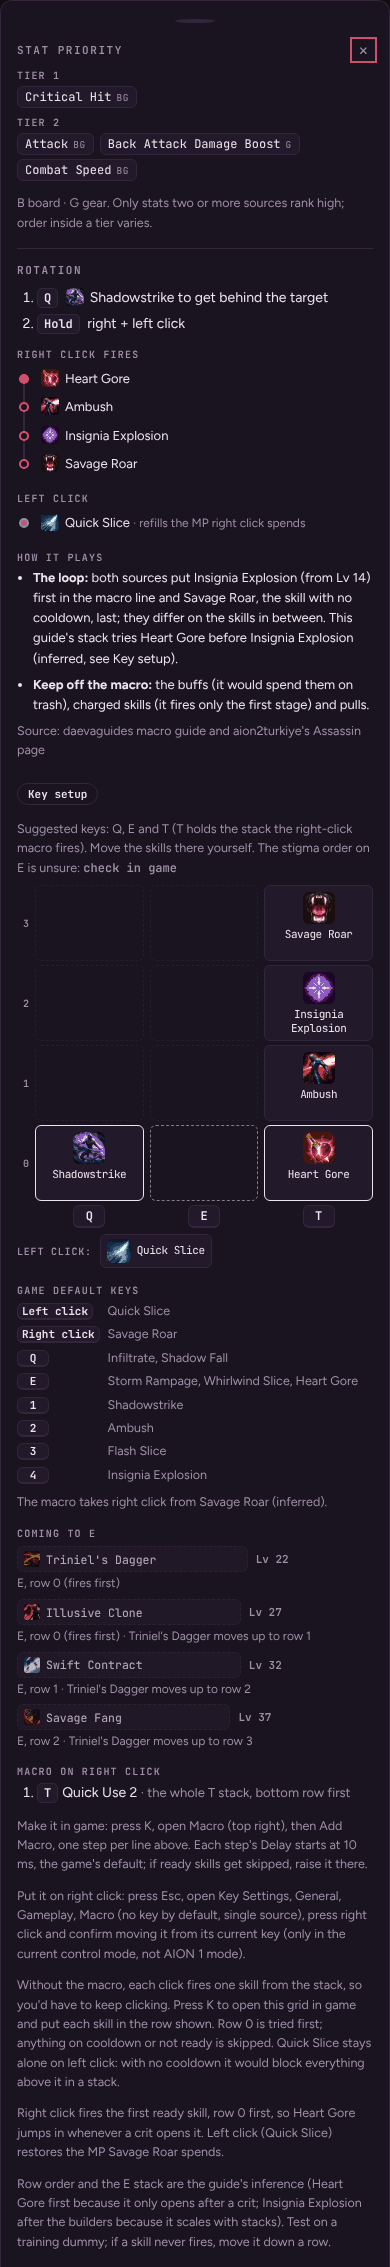
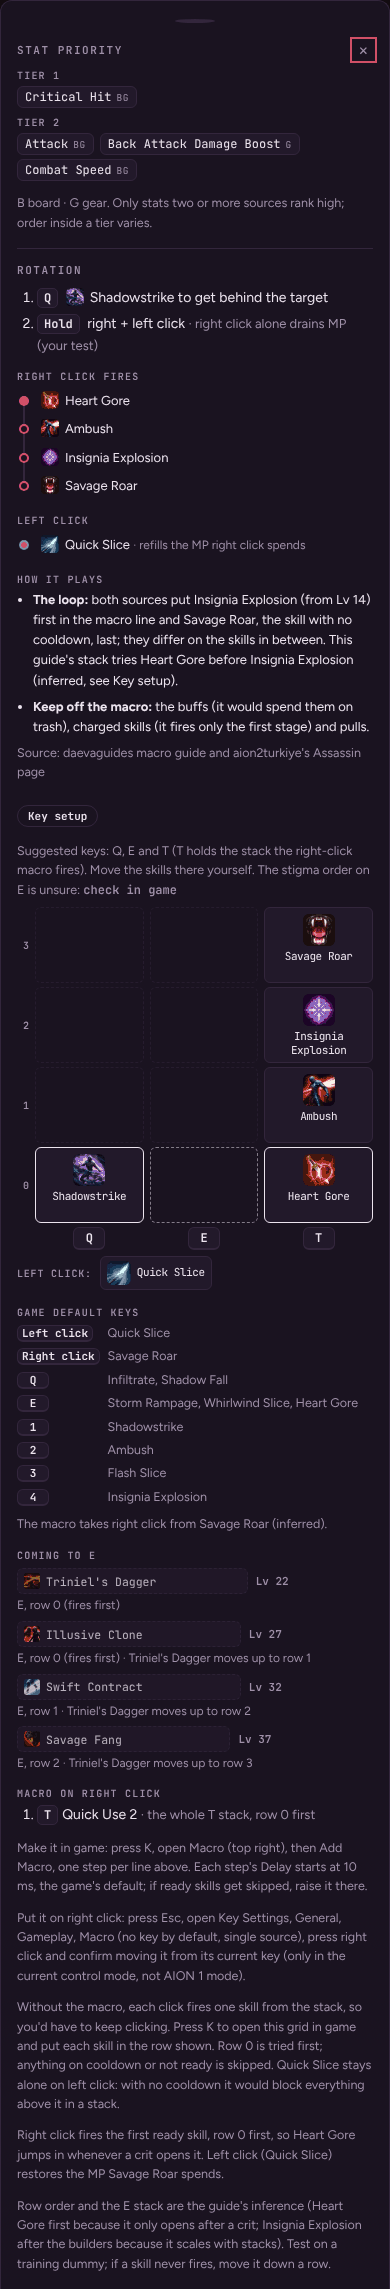
0.9 P22 input rev 2.1: answers to Saul's blind review (No visible change in the app)
Brings back what old macro line 3 carried, as one muted clause on the Rotation's Hold step
("right click alone drains MP (your test)"). Steps say "row 0 first" to match the grid. Adds
Lv 27, Lv 45 and Basic frames (test fixture) to shoot.mjs. Every finding is answered in the doc.

npm test: 22/23, with a11y failing in the full run on "keys lv20 advanced 390px touch: a long
skill name wraps". It passes on its own (node tests/run.mjs --only a11y). Same check as rev 2; no
src change.

Claude-Session: https://claude.ai/code/session_01K8AEp1D6fnpHKSP7HbTKan

diff --git a/docs/design/0.9-keys/macro/macro-steps.html b/docs/design/0.9-keys/macro/macro-steps.html
@@ -1,6 +1,6 @@
 <div class="rmbline mac"><span class="mocktag">MOCK DATA: SHAPE ONLY</span><span class="khead">Macro on right click · 3 steps</span>
- <ol class="playsteps"><li><b>T</b>Quick Use 2 <span class="muted">· the whole T stack, bottom row first</span></li>
- <li><b>Q</b>Quick Use 8 <span class="muted">· the whole Q stack, bottom row first</span></li>
+ <ol class="playsteps"><li><b>T</b>Quick Use 2 <span class="muted">· the whole T stack, row 0 first</span></li>
+ <li><b>Q</b>Quick Use 8 <span class="muted">· the whole Q stack, row 0 first</span></li>
  <li><img class="spmini" src="assets/icons/sk-shadow-fall.png" alt="">Shadow Fall <span class="muted">· one skill · Delay 200 ms</span></li></ol>
  <p class="fine tline">Make it in game: press K, open Macro (top right), then Add Macro, one step per line above. Each step's Delay starts at 10 ms, the game's default; if ready skills get skipped, raise it there. Up to 20 steps. Left click can only be the last step.</p>
  <p class="fine tline">Put it on right click: press Esc, open Key Settings, General, Gameplay, Macro (no key by default, single source), press right click and confirm moving it from its current key (only in the current control mode, not AION 1 mode).</p>

diff --git a/docs/design/0.9-keys/macro/macro-lv1.html b/docs/design/0.9-keys/macro/macro-lv1.html
@@ -1,5 +1,5 @@
 <div class="rmbline mac"><span class="khead">Macro on right click</span>
- <ol class="playsteps"><li><b>T</b>Quick Use 2 <span class="muted">· the whole T stack, bottom row first</span></li></ol>
+ <ol class="playsteps"><li><b>T</b>Quick Use 2 <span class="muted">· the whole T stack, row 0 first</span></li></ol>
  <p class="fine tline">Make it in game: press K, open Macro (top right), then Add Macro, one step per line above. Each step's Delay starts at 10 ms, the game's default; if ready skills get skipped, raise it there.</p>
  <p class="fine tline">Put it on right click: press Esc, open Key Settings, General, Gameplay, Macro (no key by default, single source), press right click and confirm moving it from its current key (only in the current control mode, not AION 1 mode).</p>
 </div>

diff --git a/docs/design/0.9-keys/macro/macro-lv20.html b/docs/design/0.9-keys/macro/macro-lv20.html
@@ -1,5 +1,5 @@
 <div class="rmbline mac"><span class="khead">Macro on right click</span>
- <ol class="playsteps"><li><b>T</b>Quick Use 2 <span class="muted">· the whole T stack, bottom row first</span></li></ol>
+ <ol class="playsteps"><li><b>T</b>Quick Use 2 <span class="muted">· the whole T stack, row 0 first</span></li></ol>
  <p class="fine tline">Make it in game: press K, open Macro (top right), then Add Macro, one step per line above. Each step's Delay starts at 10 ms, the game's default; if ready skills get skipped, raise it there.</p>
  <p class="fine tline">Put it on right click: press Esc, open Key Settings, General, Gameplay, Macro (no key by default, single source), press right click and confirm moving it from its current key (only in the current control mode, not AION 1 mode).</p>
 </div>

diff --git a/docs/design/0.9-keys-macro.md b/docs/design/0.9-keys-macro.md
@@ -2,7 +2,7 @@
 
 Jane (Design Lead). Rev 1, 2026-10-22 2:30 AM ET; **rev 2, 2026-10-22 4:15 AM ET**, after the Design Critic
 (`design-critic/p22-keys-macro-658e661.md`, project files) and Holly's checklist pass
-(`design-review/review-0.9-p22-keys-macro-holly.md`). Both answered at the end. P22's input (plan §P22: "Design Lead
+(`design-review/review-0.9-p22-keys-macro-holly.md`); rev 2.1 after Saul's blind review (#839, `FRESH REVIEW #839 74fe844`). All three answered at the end. P22's input (plan §P22: "Design Lead
 writes `docs/design/0.9-keys-macro.md`: whether the simple layout and the macro steps change the keys mock"). The keys
 mock is `docs/design/0.9-keys/` (#619, #656). Facts come from Game Data Check's `docs/research/2026-10-skill-bar.md`;
 "fact 6" means a row of that file.
@@ -20,11 +20,13 @@ macro fragment into today's drawer):
 | `22-macro-{1500,390,360}` | Lv 20, fold open: the macro block in place, real grid and fine print around it |
 | `22-macro-lv1-390` | Lv 1: the stack holds Savage Roar only; the block is the same one step |
 | `22-macro-steps-{1500,390}` | **Mock data** (tagged in the frame): three steps, one of them a single skill with a non-default delay |
+| `22-macro-lv27-390`, `22-macro-lv45-390` | The test fixture at Lv 27 and 45 (stigmas equipped, so the E steps and a full E column show) |
+| `22-macro-basic-390` | Lv 20 in Basic: the drawer is the same in both modes |
 
 The 1500 frames are today's 320 px drawer. In the #656 desktop panel the block takes the place of "Set the macro once" in
 the right column, at that column's width.
 
-## 1. The simple "autopilot" layout: the Rotation section, unchanged
+## 1. The simple "autopilot" layout: the Rotation section, plus one clause
 
 The owner asked for a simple layout (hold left / right click plus Q / E / R / F) alongside the advanced split.
 
@@ -34,6 +36,8 @@ The owner asked for a simple layout (hold left / right click plus Q / E / R / F)
   The key grid and the macro are the advanced part, in the Key setup fold, which remembers whether it's open. That is the
   one-view rule (DECISIONS "One view", owner 2026-10-20): one page, the simple part first, detail in a fold, no Simple /
   Advanced switch.
+- **One clause added** (Saul, blind review 1): the Hold step reads "Hold right + left click · right click alone drains MP (your
+  test)", muted after the dot. It carries the warning and the owner's "(your test)" tag that the removed fold line held.
 - **Not R or F.** R isn't a key of its own; by default it's left click's second key (fact 11), so "hold left click"
   covers it. F holds no skill (F1–F8 are consumables, fact 11). The owner's rule that the bar matches the game (beta B4)
   decides this.
@@ -52,7 +56,7 @@ can be up to 20, and each has its own Delay.
 - **Heading:** "Macro on right click" (the drawer's `.khead`, like "Right click fires" and "Coming to E"), or on whichever
   key the data puts it (fact 6). With more than one step: "· 3 steps".
 - **One numbered row per step, as in the game's Macro window** (the Rotation's `.playsteps` list, key chip and all):
-  - A key step: key chip, the slot's game name ("Quick Use 2"), then muted "· the whole T stack, bottom row first". It
+  - A key step: key chip, the slot's game name ("Quick Use 2"), then muted "· the whole T stack, row 0 first". It
     doesn't list the skills: the T column of the grid in the same fold shows them, with icons and names.
   - A single-skill step: icon and name, "· one skill". Only where the data has one (fact 5).
   - A step whose data carries a delay other than 10 ms adds "· Delay 200 ms". No divider, nothing drawn for the default.
@@ -62,8 +66,8 @@ can be up to 20, and each has its own Delay.
     steps. Left click can only be the last step." (facts 6, 7, 12, 12a).
   - Today's "Put the macro on right click" line, kept with its single-source label, without the arrows.
 - **Removed:** the old third line ("Hold right and left click together … Right click alone drains MP; holding left click
-  too keeps it full (your test)"). The Rotation's "Hold right + left click" step and "Left click: Quick Slice · refills
-  the MP right click spends" already say it. This is a removal the owner sees (triage trigger 4).
+  too keeps it full (your test)"). Its action is the Rotation's Hold step, which now carries its warning and tag (§1).
+  This is a removal the owner sees (triage trigger 4).
 - Steps follow the level like the grid. A step whose key holds nothing yet isn't drawn. A rebound key (#388) shows on the
   step's chip, as on the grid's.
 - **Order in the fold:** as #656 drew it (grid, left click, Game default keys, Coming to E, then the macro; on desktop the
@@ -73,13 +77,13 @@ can be up to 20, and each has its own Delay.
 
 ## Accessibility
 
-- The steps are an ordered list. A step reads "1. T Quick Use 2 · the whole T stack, bottom row first"; the key chip is
+- The steps are an ordered list. A step reads "1. T Quick Use 2 · the whole T stack, row 0 first"; the key chip is
   text. The mock tag is text.
 - The fold's summary is the app's existing Key setup control.
 
 ## Not changed
 
-The Rotation section (play order, the C21b disputed tag on the E buffs, Right click fires, Left click, the "How it plays"
+The Rotation section apart from the Hold step's clause (play order, the C21b disputed tag on the E buffs, Right click fires, Left click, the "How it plays"
 tip and its Source line). In the fold: the grid (row 0 at the bottom, DECISIONS `owner-ok-0.9-key-grid`), the filled
 icons, rebinding and its clash state, Game default keys with "The macro takes right click from Savage Roar (inferred)",
 "Coming to E", and the three fine-print lines, including "Row order and the E stack are the guide's inference … Test on a
@@ -105,7 +109,7 @@ drops.
 | 6 Med | Fixed. No dividers. The 10 ms default is stated once; a per-step delay shows only when it differs. |
 | 7 Med | Not changed. Its reason was the How you play line pointing into the fold. The order stays as #656 drew it. |
 | 8 Med | Fixed by reuse. The macro heading is the drawer's `.khead`, the same level as "Right click fires" and "Coming to E", one level under the section's "Rotation" heading. |
-| 9 Med | Fixed. "bottom row first", which matches the grid. The cooldown note is already in the fold's fine print, once. |
+| 9 Med | Kept "row 0": the grid labels its rows 0–3 and the fine print says "row 0 first", so it's the player's word here (Saul 8). The cooldown note is already in the fold's fine print, once. |
 | 10 Low | Key steps name no skills on purpose. The grid's column, in the same fold, names them. |
 | 11 Low | Kept. "Quick Use 2" is the word the game's Macro window shows, so it's the main text. The explanation is muted. |
 | 12 Low | Fixed. "press K, open Macro (top right), then Add Macro". The kept Esc line lost its arrows too. |
@@ -125,3 +129,15 @@ drops.
 | 6 Minor | Done: `22-rotation-*`. |
 | 7 Minor | Gone with the block. The MP note was in it. The 390 heading fits on one line. |
 | 8 Minor | Moot. No dividers. |
+
+**Saul's blind review (at 74fe844).**
+
+| # | Answer |
+|---|---|
+| 1 Bring back | Done. The Hold step carries "· right click alone drains MP (your test)" (§1, every frame). |
+| 2 Order swapped | Kept on purpose: make the macro, then bind it, is the order you do it in game. |
+| 3, 4, 6 | The intended changes (§2). |
+| 5 Game facts | All are Verified rows of `docs/research/2026-10-skill-bar.md`, Game Data Check's file: Quick Use 2's second key is T (facts 1, 11), up to 20 steps (7), left click only last (6), 10 ms default (12a, owner T-123). "Delay 200 ms" is mock data only. |
+| 7 States | Done: `22-macro-lv27-390`, `22-macro-lv45-390`, `22-macro-basic-390`. |
+| 8 One term | Fixed: "row 0 first". |
+| 9, 10 | Predate this PR; not widened here. |
